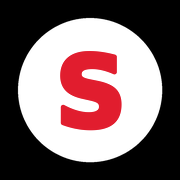
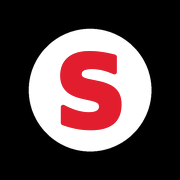
Series: círculo blanco del icono más pequeño
Claude-Session: https://claude.ai/code/session_01Cbx6LteUfBBmaqtK45qBeu

Changed region(s): [[0.0833, 0.0833, 0.9167, 0.9167]]

diff --git a/series.html b/series.html
@@ -4,7 +4,7 @@
 <meta name="apple-mobile-web-app-capable" content="yes">
 <meta name="apple-mobile-web-app-title" content="Series">
 <meta name="theme-color" content="#EEF1F4">
-<link rel="apple-touch-icon" href="icono-series-2.png">
+<link rel="apple-touch-icon" href="icono-series-3.png">
 <title>Series</title>
 <style>
 :root{--bg:#EEF1F4;--card:#fff;--ink:#14181F;--mut:#6B7480;--line:#DDE2E8;--acc:#2D5BFF;--ok:#1F9D6B;--bad:#D6453D;--amb:#F08C00}
